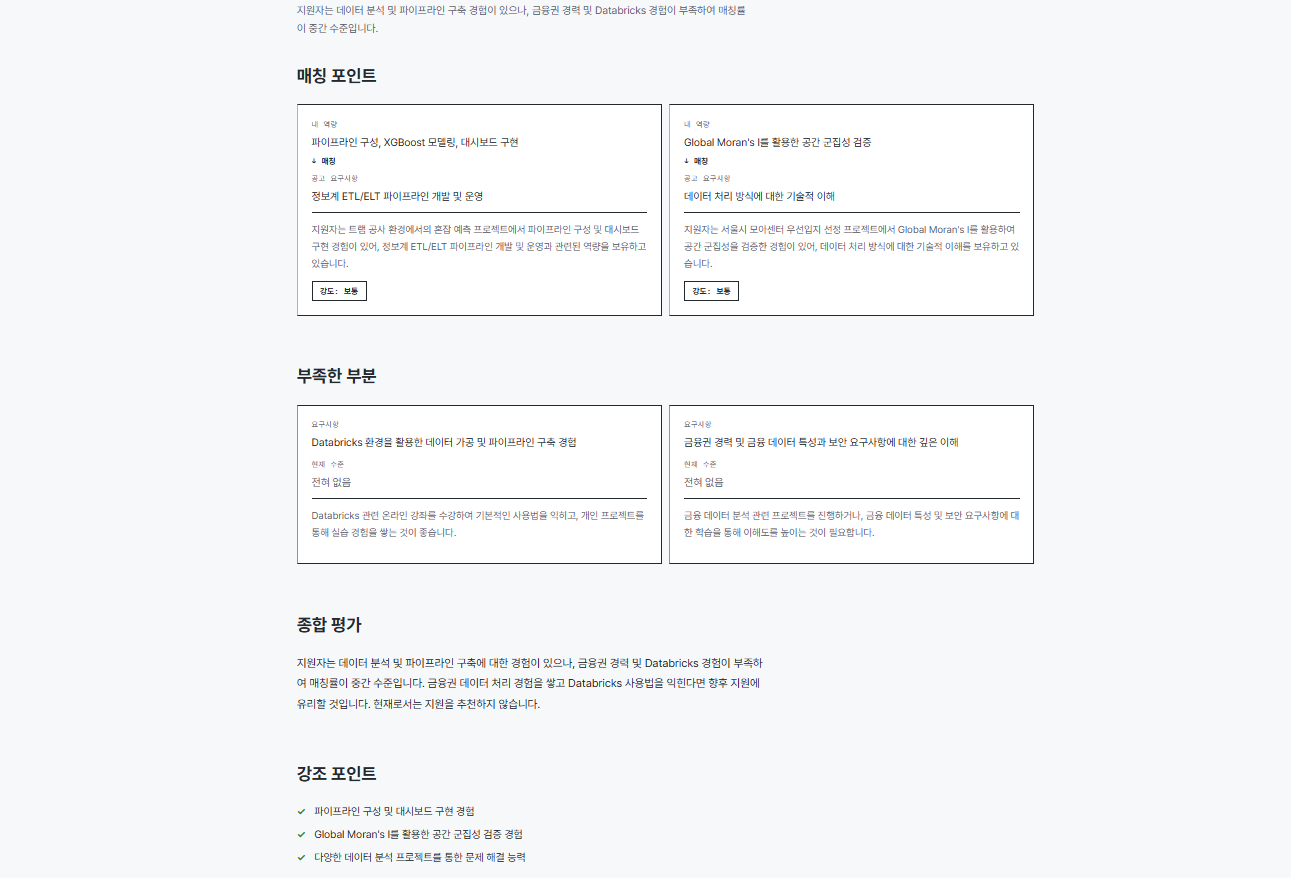
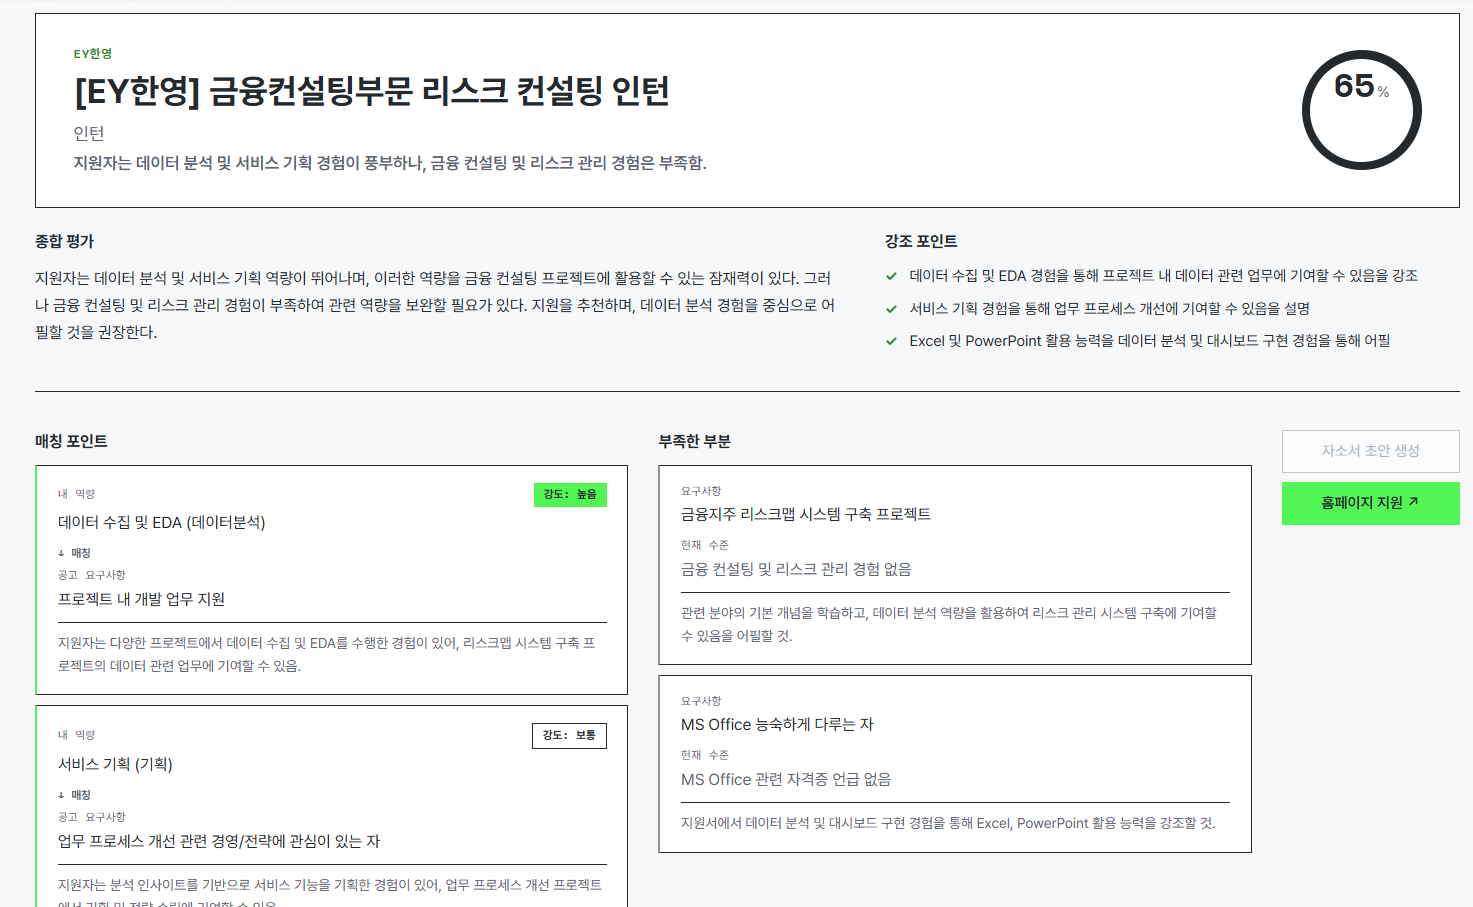
Update pictures, 상세분석

diff --git a/frontend/src/app-shell.css b/frontend/src/app-shell.css
@@ -46,7 +46,7 @@ button, a, input, textarea { font: inherit; }
 button { cursor: pointer; }
 h1, h2, h3 { letter-spacing: 0; font-weight: 700; }
 
-.page-shell, .detail-shell { width: min(1180px, calc(100% - 48px)); margin: 0 auto; }
+.page-shell, .detail-shell, .analysis-shell { width: min(1180px, calc(100% - 48px)); margin: 0 auto; }
 .page-shell { padding: 0 0 100px; }
 
 /* 히어로: 밝은 화이트 밴드 + 헤어라인으로만 구분 */
@@ -170,39 +170,52 @@ h1, h2, h3 { letter-spacing: 0; font-weight: 700; }
 .match-card-actions { display: flex; gap: 8px; margin-top: 14px; }
 .match-card-actions .explain-button { flex: 1; display: inline-flex; align-items: center; justify-content: center; gap: 6px; }
 
-.analysis-hero { display: flex; align-items: center; justify-content: space-between; gap: 40px; padding: 56px; margin: 0 calc(50% - 50vw) 32px; background: var(--white); border-bottom: 1px solid var(--line); }
+/* 상세 분석 페이지: 다른 페이지보다 넓은 캔버스를 써서 2단 대시보드로 배치.
+   내부 컬럼 스크롤(clip)은 쓰지 않고, 페이지 전체가 필요한 만큼만 자연스럽게
+   스크롤되도록 한다 — 컨텐츠가 잘리는 일은 없어야 한다. */
+.analysis-shell { width: min(1520px, calc(100% - 56px)); margin: 0 auto; padding: 32px 0 100px; }
+.analysis-shell .back-link { margin-bottom: 28px; }
+
+.analysis-hero { display: flex; align-items: center; justify-content: space-between; gap: 32px; padding: 32px 40px; margin: 0 0 24px; background: var(--white); border: 1px solid var(--line); }
 .analysis-hero > div:first-child { flex: 1; min-width: 0; }
 .analysis-hero > div > .eyebrow { color: var(--green-ink); }
-.analysis-hero .header-copy, .analysis-hero p { color: var(--muted); }
-.analysis-hero h1 { max-width: 100%; margin: 10px 0 6px; font-size: clamp(30px, 4vw, 44px); font-weight: 700; color: var(--ink); }
-.score-gauge { --pct: 0; --gauge-color: var(--green); flex-shrink: 0; width: 168px; height: 168px; border-radius: 50%; padding: 10px; background: conic-gradient(var(--gauge-color) calc(var(--pct) * 1%), var(--line) 0); }
+.analysis-hero .header-copy, .analysis-hero p { color: var(--muted); margin: 0; }
+.analysis-hero h1 { max-width: 100%; margin: 8px 0 6px; font-size: clamp(26px, 2.8vw, 36px); line-height: 1.3; font-weight: 700; color: var(--ink); }
+.score-gauge { --pct: 0; --gauge-color: var(--green); flex-shrink: 0; width: 128px; height: 128px; border-radius: 50%; padding: 9px; background: conic-gradient(var(--gauge-color) calc(var(--pct) * 1%), var(--line) 0); }
 .score-gauge.tier-high { --gauge-color: var(--green); }
 .score-gauge.tier-mid { --gauge-color: var(--ink); }
 .score-gauge.tier-low { --gauge-color: var(--muted-faint); }
 .score-gauge-inner { width: 100%; height: 100%; border-radius: 50%; background: var(--white); display: flex; align-items: baseline; justify-content: center; gap: 2px; }
-.score-gauge-inner strong { font-family: var(--font-mono); font-size: 44px; font-weight: 700; color: var(--ink); }
-.score-gauge-inner span { font-size: 18px; color: var(--muted); }
-.score-reason { max-width: 720px; margin: 0 0 40px; color: var(--muted); font-size: 17px; line-height: 1.7; }
+.score-gauge-inner strong { font-family: var(--font-mono); font-size: 36px; font-weight: 700; color: var(--ink); }
+.score-gauge-inner span { font-size: 16px; color: var(--muted); }
+.hero-summary { max-width: none; margin: 14px 0 0; color: var(--ink); font-size: 18px; font-weight: 600; line-height: 1.6; }
 
-.point-grid { display: grid; grid-template-columns: repeat(2, 1fr); gap: 12px; }
-.point-card { padding: 22px; border: 1px solid var(--line); border-left: 3px solid var(--ink); background: var(--white); }
+.analysis-top-row { display: grid; grid-template-columns: 1.4fr 1fr; gap: 48px; align-items: start; margin-bottom: 40px; padding-bottom: 40px; border-bottom: 1px solid var(--line); }
+.analysis-board { display: grid; grid-template-columns: 1fr 1fr auto; gap: 32px; align-items: start; }
+.analysis-col { display: flex; flex-direction: column; gap: 24px; }
+
+.point-section-title { display: flex; align-items: center; gap: 10px; margin: 0 0 12px; font-size: 17px; font-weight: 700; color: var(--ink); }
+.point-list { display: flex; flex-direction: column; gap: 10px; }
+.point-card { padding: 18px 22px; border: 1px solid var(--line); border-left: 3px solid var(--ink); background: var(--white); }
 .point-matched { border-left: 3px solid var(--green); }
 .point-gap { border-left: 3px solid var(--muted-faint); }
-.point-label { display: block; color: var(--muted); font-family: var(--font-mono); font-size: 12px; letter-spacing: .06em; text-transform: uppercase; }
-.point-main { margin: 6px 0 12px; font-size: 17px; line-height: 1.6; }
-.point-arrow { margin: -6px 0 10px; color: var(--ink); font-family: var(--font-mono); font-size: 13px; font-weight: 700; }
-.point-explanation { margin: 0 0 14px; padding-top: 12px; border-top: 1px solid var(--line); color: var(--muted); font-size: 16px; line-height: 1.7; }
-.strength-badge { display: inline-block; border-radius: 0; padding: 5px 12px; font-size: 13px; font-weight: 700; font-family: var(--font-mono); }
+.point-row { display: flex; align-items: baseline; gap: 10px; flex-wrap: wrap; }
+.point-label { display: block; color: var(--muted); font-family: var(--font-mono); font-size: 12px; letter-spacing: .04em; text-transform: uppercase; flex-shrink: 0; }
+.point-main { margin: 4px 0 10px; font-size: 17px; line-height: 1.55; }
+.point-arrow { margin: 0 0 6px; color: var(--muted); font-family: var(--font-mono); font-size: 12px; font-weight: 700; }
+.point-explanation { margin: 8px 0 0; padding-top: 10px; border-top: 1px solid var(--line); color: var(--muted); font-size: 15px; line-height: 1.6; }
+.strength-badge { display: inline-block; flex-shrink: 0; border-radius: 0; padding: 4px 11px; font-size: 12px; font-weight: 700; font-family: var(--font-mono); margin-left: auto; }
 .strength-badge.strength-high { background: var(--green); color: var(--ink); }
 .strength-badge.strength-medium { background: var(--white); border: 1px solid var(--ink); color: var(--ink); }
 .strength-badge.strength-low { background: var(--canvas); border: 1px solid var(--line); color: var(--muted); }
 
-.summary-text { max-width: 760px; margin: 0; color: var(--ink); font-size: 18px; line-height: 1.8; }
+.summary-text { max-width: none; margin: 0; color: var(--ink); font-size: 17px; line-height: 1.7; }
 .emphasis-list { margin: 0; padding: 0; list-style: none; display: grid; gap: 10px; }
-.emphasis-list li { position: relative; padding-left: 28px; color: var(--ink); font-size: 17px; line-height: 1.6; }
+.emphasis-list li { position: relative; padding-left: 26px; color: var(--ink); font-size: 16px; line-height: 1.55; }
 .emphasis-list li::before { content: '✓'; position: absolute; left: 0; top: 0; color: var(--green-ink); font-weight: 700; }
-.analysis-actions { display: flex; gap: 10px; margin-top: 60px; padding-top: 40px; border-top: 1px solid var(--line); }
+.analysis-actions { display: flex; flex-direction: column; align-items: stretch; gap: 10px; width: 190px; flex-shrink: 0; }
 .analysis-actions .secondary-button:disabled { opacity: .5; cursor: not-allowed; }
+.analysis-actions .primary-button, .analysis-actions .secondary-button { height: 46px; font-size: 16px; padding: 8px 20px; }
 
 @media (max-width: 760px) {
   .page-shell, .detail-shell { width: min(100% - 32px, 600px); }
@@ -211,11 +224,12 @@ h1, h2, h3 { letter-spacing: 0; font-weight: 700; }
   .header-side, .header-stat { align-items: start; }
   .skill-list { grid-template-columns: 1fr; }
   .posting-grid { grid-template-columns: 1fr; }
-  .analysis-hero { flex-direction: column; align-items: start; gap: 24px; padding: 40px 24px; }
-  .score-gauge { width: 128px; height: 128px; }
-  .score-gauge-inner strong { font-size: 34px; }
-  .point-grid { grid-template-columns: 1fr; }
-  .analysis-actions { flex-direction: column; align-items: stretch; }
+  .analysis-shell { padding: 20px 0 60px; }
+  .analysis-hero { flex-direction: column; align-items: start; gap: 20px; padding: 28px 24px; }
+  .score-gauge { width: 96px; height: 96px; }
+  .analysis-top-row { grid-template-columns: 1fr; gap: 32px; margin-bottom: 32px; padding-bottom: 32px; }
+  .analysis-board { grid-template-columns: 1fr; gap: 32px; }
+  .analysis-actions { width: auto; margin-top: 8px; }
   .posting-card { min-height: 230px; }
   .toolbar { align-items: start; flex-direction: column; gap: 14px; }
   .detail-shell { padding-top: 24px; }

diff --git a/frontend/src/pages/MatchAnalysisPage.tsx b/frontend/src/pages/MatchAnalysisPage.tsx
@@ -110,7 +110,7 @@ export default function MatchAnalysisPage() {
   const tier = scoreTier(score)
 
   return (
-    <main className="page-shell">
+    <main className="analysis-shell">
       <Link className="back-link" to={resumeId ? `/match/${resumeId}` : '/resume'}>← 매칭 목록</Link>
 
       <section className="analysis-hero">
@@ -118,6 +118,7 @@ export default function MatchAnalysisPage() {
           <p className="eyebrow">{posting?.company || '기업 미상'}</p>
           <h1>{posting?.title || '제목 없는 공고'}</h1>
           <p className="header-copy">{(posting?.role_name ?? '').split('\n')[0] || '직무 미기재'}</p>
+          {analysis.score_reason && <p className="hero-summary">{analysis.score_reason}</p>}
         </div>
         <div className={`score-gauge tier-${tier}`} style={{ '--pct': score } as CSSProperties}>
           <div className="score-gauge-inner">
@@ -126,71 +127,76 @@ export default function MatchAnalysisPage() {
           </div>
         </div>
       </section>
-      {analysis.score_reason && <p className="score-reason">{analysis.score_reason}</p>}
 
-      {analysis.matched_points.length > 0 && (
-        <section className="content-section">
-          <div className="section-heading"><h2>매칭 포인트</h2></div>
-          <div className="point-grid">
-            {analysis.matched_points.map((point, index) => (
-              <div className="point-card point-matched" key={index}>
-                <span className="point-label">내 역량</span>
-                <p className="point-main">{point.applicant_capability}</p>
-                <div className="point-arrow">↓ 매칭</div>
-                <span className="point-label">공고 요구사항</span>
-                <p className="point-main">{point.jd_requirement}</p>
-                <p className="point-explanation">{point.explanation}</p>
-                <span className={`strength-badge strength-${point.strength}`}>
-                  강도: {STRENGTH_LABEL[point.strength] ?? point.strength}
-                </span>
-              </div>
-            ))}
-          </div>
-        </section>
-      )}
-
-      {analysis.gap_points.length > 0 && (
-        <section className="content-section">
-          <div className="section-heading"><h2>부족한 부분</h2></div>
-          <div className="point-grid">
-            {analysis.gap_points.map((point, index) => (
-              <div className="point-card point-gap" key={index}>
-                <span className="point-label">요구사항</span>
-                <p className="point-main">{point.jd_requirement}</p>
-                <span className="point-label">현재 수준</span>
-                <p className="point-main muted">{point.current_state}</p>
-                <p className="point-explanation">{point.suggestion}</p>
-              </div>
-            ))}
-          </div>
-        </section>
-      )}
-
-      {analysis.summary && (
-        <section className="content-section">
-          <div className="section-heading"><h2>종합 평가</h2></div>
-          <p className="summary-text">{analysis.summary}</p>
-        </section>
-      )}
-
-      {analysis.recommended_emphasis.length > 0 && (
-        <section className="content-section">
-          <div className="section-heading"><h2>강조 포인트</h2></div>
-          <ul className="emphasis-list">
-            {analysis.recommended_emphasis.map((item, index) => <li key={index}>{item}</li>)}
-          </ul>
-        </section>
-      )}
-
-      <div className="analysis-actions">
-        <button className="secondary-button" type="button" disabled title="준비 중인 기능입니다">
-          자소서 초안 생성
-        </button>
-        {posting?.apply_url && (
-          <a className="primary-button" href={posting.apply_url} target="_blank" rel="noreferrer">
-            홈페이지 지원 ↗
-          </a>
+      <div className="analysis-top-row">
+        {analysis.summary && (
+          <section>
+            <p className="point-section-title">종합 평가</p>
+            <p className="summary-text">{analysis.summary}</p>
+          </section>
         )}
+
+        {analysis.recommended_emphasis.length > 0 && (
+          <section>
+            <p className="point-section-title">강조 포인트</p>
+            <ul className="emphasis-list">
+              {analysis.recommended_emphasis.map((item, index) => <li key={index}>{item}</li>)}
+            </ul>
+          </section>
+        )}
+      </div>
+
+      <div className="analysis-board">
+        {analysis.matched_points.length > 0 && (
+          <section>
+            <p className="point-section-title">매칭 포인트</p>
+            <div className="point-list">
+              {analysis.matched_points.map((point, index) => (
+                <div className="point-card point-matched" key={index}>
+                  <div className="point-row">
+                    <span className="point-label">내 역량</span>
+                    <span className={`strength-badge strength-${point.strength}`}>
+                      강도: {STRENGTH_LABEL[point.strength] ?? point.strength}
+                    </span>
+                  </div>
+                  <p className="point-main">{point.applicant_capability}</p>
+                  <div className="point-arrow">↓ 매칭</div>
+                  <span className="point-label">공고 요구사항</span>
+                  <p className="point-main">{point.jd_requirement}</p>
+                  <p className="point-explanation">{point.explanation}</p>
+                </div>
+              ))}
+            </div>
+          </section>
+        )}
+
+        {analysis.gap_points.length > 0 && (
+          <section>
+            <p className="point-section-title">부족한 부분</p>
+            <div className="point-list">
+              {analysis.gap_points.map((point, index) => (
+                <div className="point-card point-gap" key={index}>
+                  <span className="point-label">요구사항</span>
+                  <p className="point-main">{point.jd_requirement}</p>
+                  <span className="point-label">현재 수준</span>
+                  <p className="point-main muted">{point.current_state}</p>
+                  <p className="point-explanation">{point.suggestion}</p>
+                </div>
+              ))}
+            </div>
+          </section>
+        )}
+
+        <div className="analysis-actions">
+          <button className="secondary-button" type="button" disabled title="준비 중인 기능입니다">
+            자소서 초안 생성
+          </button>
+          {posting?.apply_url && (
+            <a className="primary-button" href={posting.apply_url} target="_blank" rel="noreferrer">
+              홈페이지 지원 ↗
+            </a>
+          )}
+        </div>
       </div>
     </main>
   )
